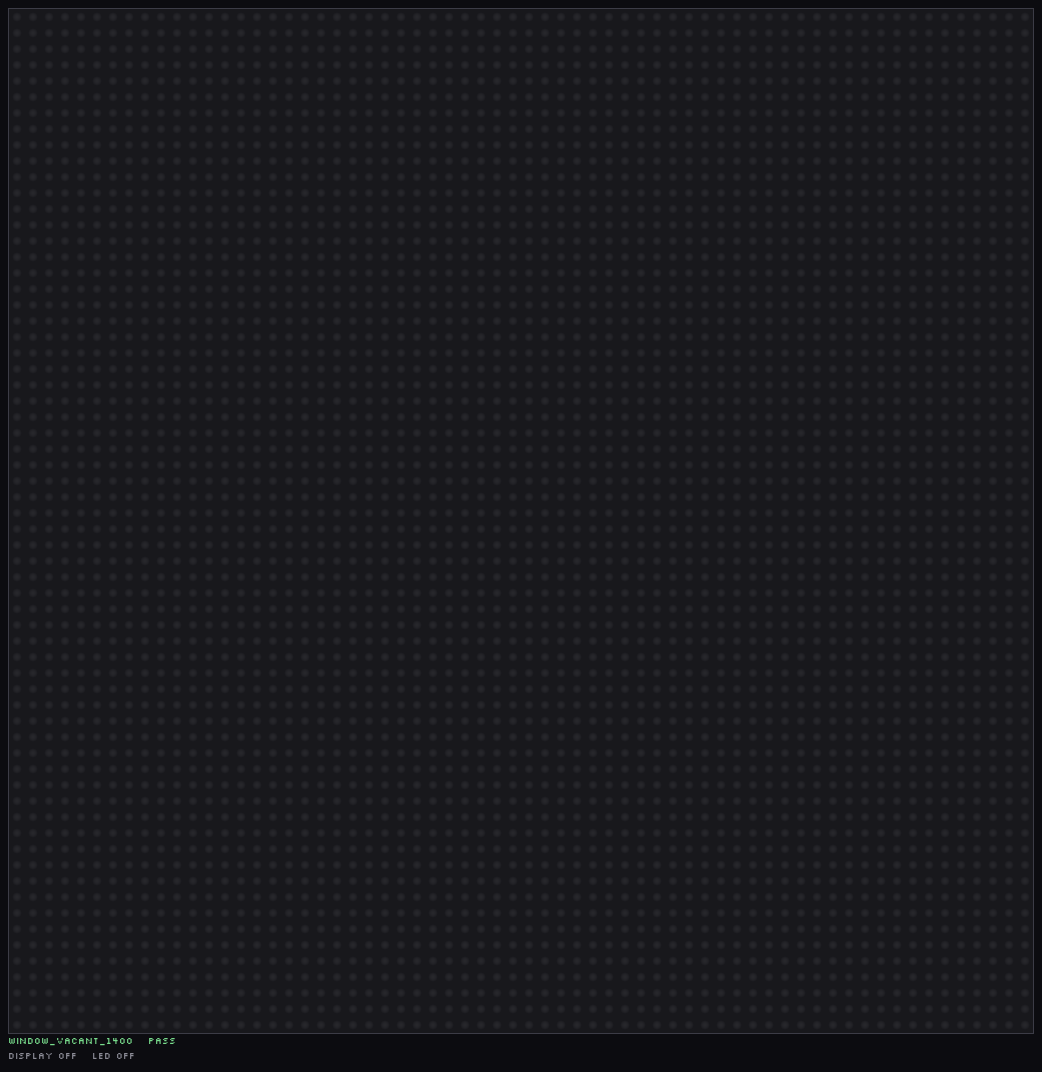
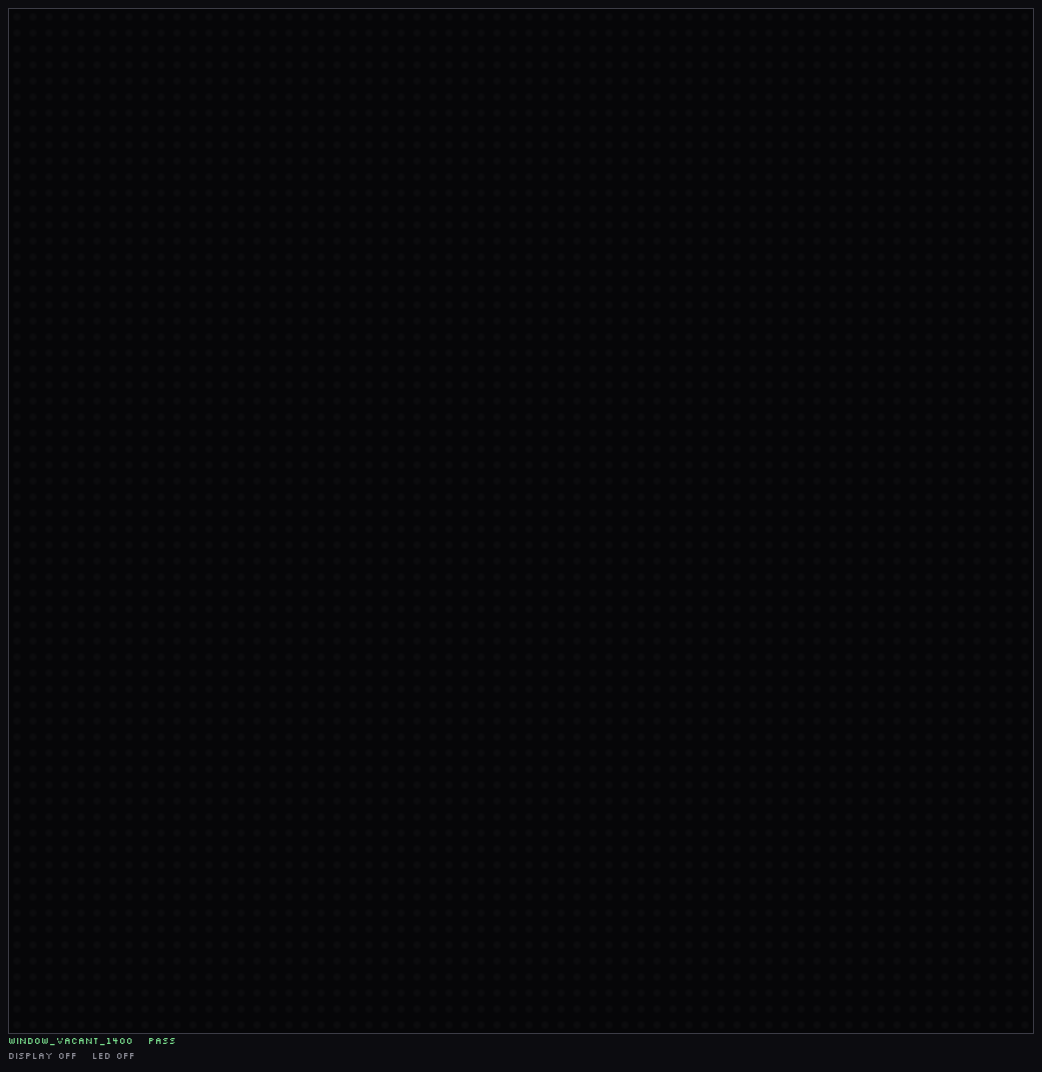
refactor(test): near-black panel background in the device look
The exposure gain was being applied to the whole image, so it lifted the LED
mask and the unlit dots to grey as well. Exposure now scales only the emitted
light (the lit LEDs), and the mask is darker (11 -> 6). Background is now
near-black with the unlit dots only faintly visible; lit LEDs unchanged.

README snapshots regenerated.

Changed region(s): [[0.0307, 0.0308, 0.9827, 0.9543]]

diff --git a/test/rasterize.py b/test/rasterize.py
@@ -203,8 +203,8 @@ def render_panel(trace: dict, fonts: dict[str, DeviceFont]) -> Image.Image:
 # glow halo on lit ones. The crisp renderer above stays the faithful one - see
 # README "Rendering fidelity" and lesson 19.
 DEVICE_CELL = 16        # px per LED in the device-style output
-DEVICE_EXPOSURE = 2.2   # gain to mimic a dark-room photo (1.0 = the true brightness)
-PANEL_BG = (11, 11, 13)
+DEVICE_EXPOSURE = 2.2   # gain on the LEDs' emitted light (1.0 = the true brightness)
+PANEL_BG = (6, 6, 8)    # the mask between LEDs
 UNLIT_LEVEL = 7         # faint dots the unlit packages catch (lower = more contrast)
 CORE_RADIUS = 0.30      # LED die radius, in cell units
 GLOW_SIGMA = 0.52
@@ -234,16 +234,19 @@ def device_look(panel: Image.Image, cell: int = DEVICE_CELL,
     out = np.empty((size, size, 3), np.float32)
     out[:] = PANEL_BG
 
-    # unlit packages: faint round dots, visible on the real panel
+    # unlit packages: faint round dots, visible on the real panel.
+    # NB: these and the mask are NOT scaled by `exposure` - exposure models the
+    # camera's gain on emitted light, so scaling the background with it would lift
+    # the whole panel to grey.
     dot = np.clip(1.0 - (r / 0.30) ** 2, 0.0, 1.0)
     out += (~lit)[..., None] * dot[..., None] * UNLIT_LEVEL
 
     # lit LEDs: a bright die with a soft halo
     core = np.clip(1.0 - (r / CORE_RADIUS) ** 4, 0.0, 1.0)
     halo = np.exp(-(r / GLOW_SIGMA) ** 2)
-    out += lit[..., None] * led * (core + GLOW_GAIN * halo)[..., None]
+    out += lit[..., None] * led * exposure * (core + GLOW_GAIN * halo)[..., None]
 
-    return Image.fromarray(np.clip(out * exposure, 0.0, 255.0).astype(np.uint8))
+    return Image.fromarray(np.clip(out, 0.0, 255.0).astype(np.uint8))
 
 
 def caption_font(size: int):
